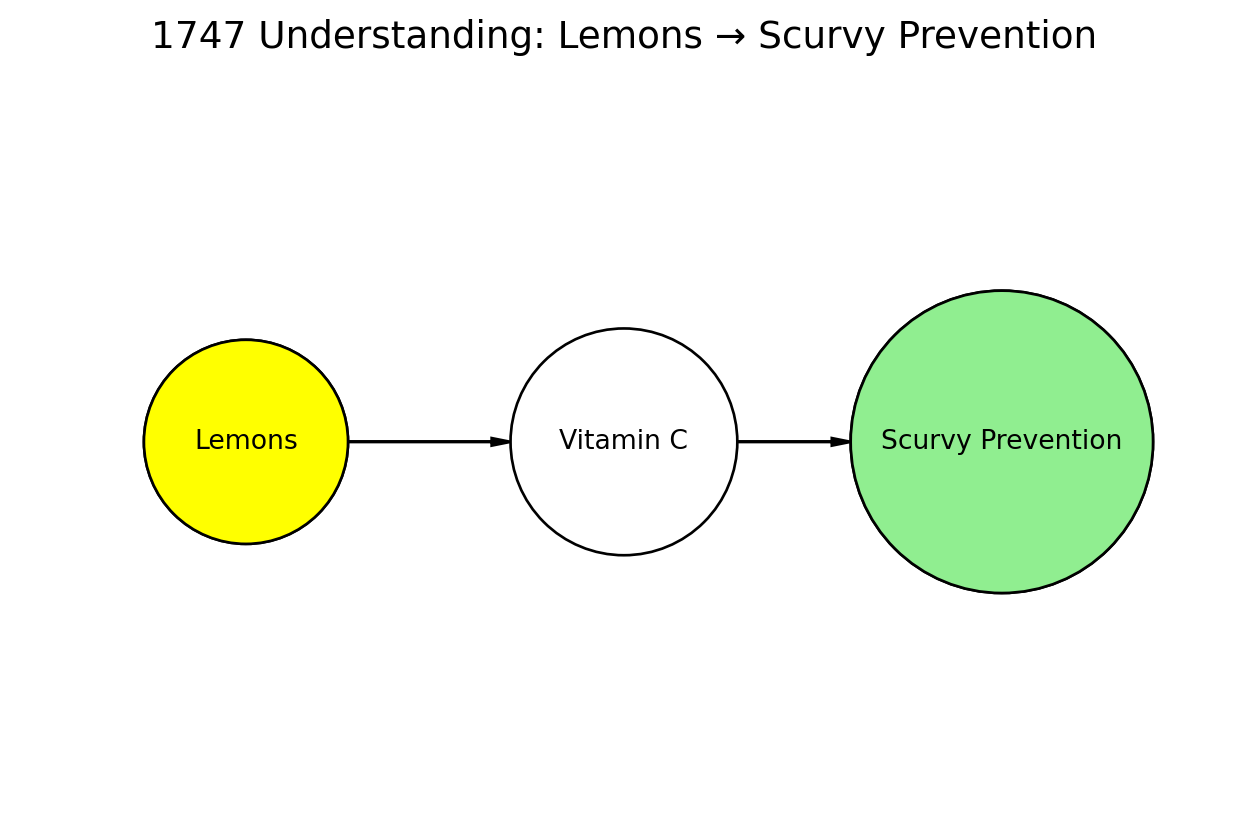
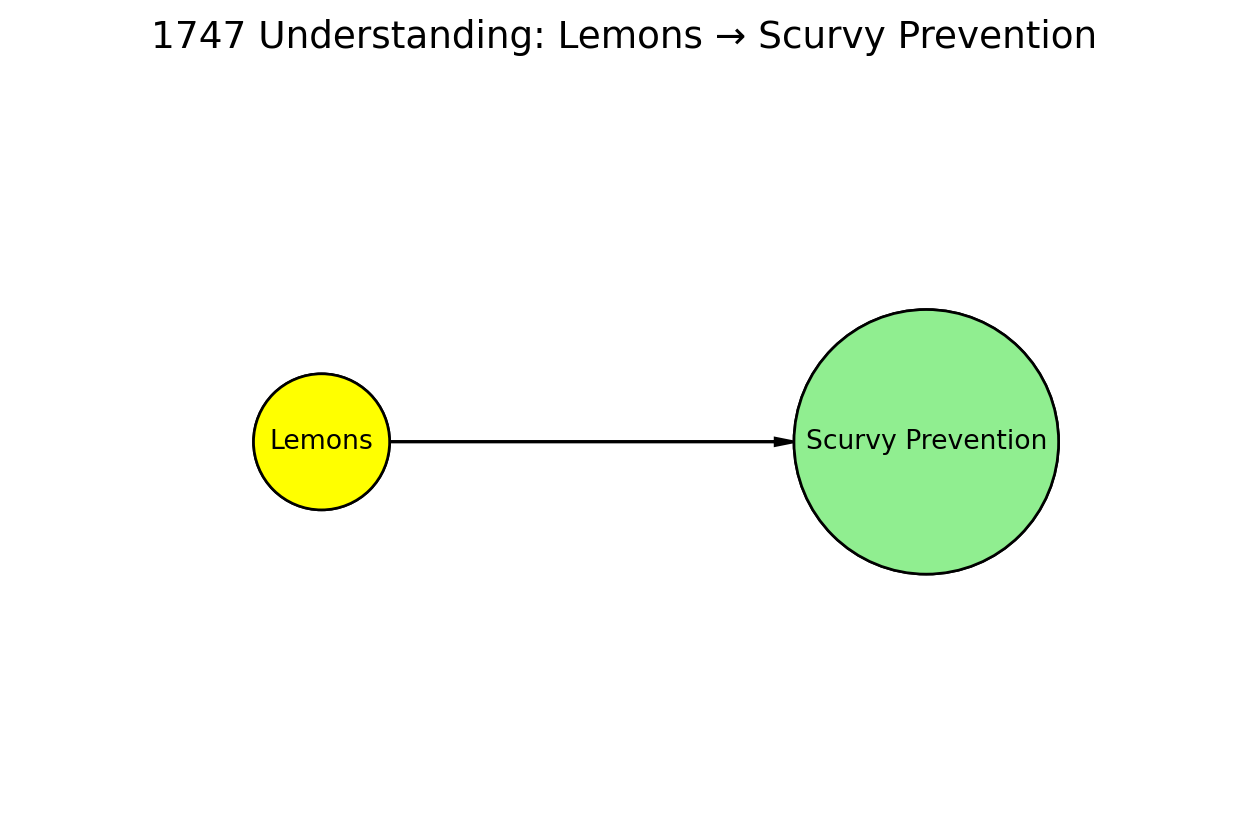
Edited final

diff --git a/index.html b/index.html
@@ -20,41 +20,6 @@ ul.task-list li input[type="checkbox"] {
   margin: 0 0.8em 0.2em -1em; /* quarto-specific, see https://github.com/quarto-dev/quarto-cli/issues/4556 */ 
   vertical-align: middle;
 }
-/* CSS for syntax highlighting */
-html { -webkit-text-size-adjust: 100%; }
-pre > code.sourceCode { white-space: pre; position: relative; }
-pre > code.sourceCode > span { display: inline-block; line-height: 1.25; }
-pre > code.sourceCode > span:empty { height: 1.2em; }
-.sourceCode { overflow: visible; }
-code.sourceCode > span { color: inherit; text-decoration: inherit; }
-div.sourceCode { margin: 1em 0; }
-pre.sourceCode { margin: 0; }
-@media screen {
-div.sourceCode { overflow: auto; }
-}
-@media print {
-pre > code.sourceCode { white-space: pre-wrap; }
-pre > code.sourceCode > span { text-indent: -5em; padding-left: 5em; }
-}
-pre.numberSource code
-  { counter-reset: source-line 0; }
-pre.numberSource code > span
-  { position: relative; left: -4em; counter-increment: source-line; }
-pre.numberSource code > span > a:first-child::before
-  { content: counter(source-line);
-    position: relative; left: -1em; text-align: right; vertical-align: baseline;
-    border: none; display: inline-block;
-    -webkit-touch-callout: none; -webkit-user-select: none;
-    -khtml-user-select: none; -moz-user-select: none;
-    -ms-user-select: none; user-select: none;
-    padding: 0 4px; width: 4em;
-  }
-pre.numberSource { margin-left: 3em;  padding-left: 4px; }
-div.sourceCode
-  {   }
-@media screen {
-pre > code.sourceCode > span > a:first-child::before { text-decoration: underline; }
-}
 </style>
 
 
@@ -131,27 +96,6 @@ pre > code.sourceCode > span > a:first-child::before { text-decoration: underlin
 <p><strong>Your Task:</strong> Recreate this DAG showing the relationship between lemons and scurvy prevention.</p>
 <p><strong>Reference Image:</strong> <img src="https://raw.githubusercontent.com/flyaflya/persuasive/642288ea5f79050c05801c3d127084ac0f361a01/images/scurvy2.png" class="img-fluid"></p>
 <div id="dag-1-1747" class="cell" data-execution_count="1">
-<div class="code-copy-outer-scaffold"><div class="sourceCode cell-code" id="cb1"><pre class="sourceCode python code-with-copy"><code class="sourceCode python"><span id="cb1-1"><a href="#cb1-1" aria-hidden="true" tabindex="-1"></a><span class="im">import</span> matplotlib.pyplot <span class="im">as</span> plt</span>
-<span id="cb1-2"><a href="#cb1-2" aria-hidden="true" tabindex="-1"></a><span class="im">import</span> daft</span>
-<span id="cb1-3"><a href="#cb1-3" aria-hidden="true" tabindex="-1"></a></span>
-<span id="cb1-4"><a href="#cb1-4" aria-hidden="true" tabindex="-1"></a></span>
-<span id="cb1-5"><a href="#cb1-5" aria-hidden="true" tabindex="-1"></a>plt.figure(figsize<span class="op">=</span>(<span class="dv">8</span>, <span class="dv">5</span>))</span>
-<span id="cb1-6"><a href="#cb1-6" aria-hidden="true" tabindex="-1"></a></span>
-<span id="cb1-7"><a href="#cb1-7" aria-hidden="true" tabindex="-1"></a>pgm <span class="op">=</span> daft.PGM([<span class="dv">8</span>, <span class="dv">5</span>], origin<span class="op">=</span>[<span class="dv">0</span>, <span class="dv">0</span>])</span>
-<span id="cb1-8"><a href="#cb1-8" aria-hidden="true" tabindex="-1"></a></span>
-<span id="cb1-9"><a href="#cb1-9" aria-hidden="true" tabindex="-1"></a>pgm.add_node(<span class="st">"lemons"</span>, <span class="st">"Lemons"</span>, <span class="fl">1.5</span>, <span class="fl">2.5</span>, observed<span class="op">=</span><span class="va">True</span>, scale<span class="op">=</span><span class="fl">2.7</span>,</span>
-<span id="cb1-10"><a href="#cb1-10" aria-hidden="true" tabindex="-1"></a>             plot_params<span class="op">=</span>{<span class="st">"fc"</span>: <span class="st">"yellow"</span>})</span>
-<span id="cb1-11"><a href="#cb1-11" aria-hidden="true" tabindex="-1"></a>pgm.add_node(<span class="st">"vitc"</span>, <span class="st">"Vitamin C"</span>, <span class="fl">4.0</span>, <span class="fl">2.5</span>, scale<span class="op">=</span><span class="dv">3</span>)</span>
-<span id="cb1-12"><a href="#cb1-12" aria-hidden="true" tabindex="-1"></a>pgm.add_node(<span class="st">"scurvy"</span>, <span class="st">"Scurvy Prevention"</span>, <span class="fl">6.5</span>, <span class="fl">2.5</span>, observed<span class="op">=</span><span class="va">True</span>, scale<span class="op">=</span><span class="dv">4</span>,</span>
-<span id="cb1-13"><a href="#cb1-13" aria-hidden="true" tabindex="-1"></a>             plot_params<span class="op">=</span>{<span class="st">"fc"</span>: <span class="st">"lightgreen"</span>})</span>
-<span id="cb1-14"><a href="#cb1-14" aria-hidden="true" tabindex="-1"></a></span>
-<span id="cb1-15"><a href="#cb1-15" aria-hidden="true" tabindex="-1"></a>pgm.add_edge(<span class="st">"lemons"</span>, <span class="st">"vitc"</span>)</span>
-<span id="cb1-16"><a href="#cb1-16" aria-hidden="true" tabindex="-1"></a>pgm.add_edge(<span class="st">"vitc"</span>, <span class="st">"scurvy"</span>)</span>
-<span id="cb1-17"><a href="#cb1-17" aria-hidden="true" tabindex="-1"></a></span>
-<span id="cb1-18"><a href="#cb1-18" aria-hidden="true" tabindex="-1"></a>pgm.render()</span>
-<span id="cb1-19"><a href="#cb1-19" aria-hidden="true" tabindex="-1"></a></span>
-<span id="cb1-20"><a href="#cb1-20" aria-hidden="true" tabindex="-1"></a>plt.title(<span class="st">"1747 Understanding: Lemons → Scurvy Prevention"</span>, fontsize<span class="op">=</span><span class="dv">14</span>)</span>
-<span id="cb1-21"><a href="#cb1-21" aria-hidden="true" tabindex="-1"></a>plt.show()</span></code></pre></div><button title="Copy to Clipboard" class="code-copy-button"><i class="bi"></i></button></div>
 <div id="dag-1-1747-1" class="cell-output cell-output-display">
 <pre><code>&lt;Figure size 768x480 with 0 Axes&gt;</code></pre>
 </div>
@@ -170,37 +114,6 @@ pre > code.sourceCode > span > a:first-child::before { text-decoration: underlin
 <p><strong>Your Task:</strong> Recreate this DAG showing the incorrect understanding of the data generating process.</p>
 <p><strong>Reference Image:</strong> <img src="https://raw.githubusercontent.com/flyaflya/persuasive/8aaffd0a3c967d0a26f506232f998130847be3e8/images/scurvy.png" class="img-fluid"></p>
 <div id="dag-2-misguided" class="cell" data-execution_count="2">
-<div class="code-copy-outer-scaffold"><div class="sourceCode cell-code" id="cb3"><pre class="sourceCode python code-with-copy"><code class="sourceCode python"><span id="cb3-1"><a href="#cb3-1" aria-hidden="true" tabindex="-1"></a><span class="im">import</span> matplotlib.pyplot <span class="im">as</span> plt</span>
-<span id="cb3-2"><a href="#cb3-2" aria-hidden="true" tabindex="-1"></a><span class="im">import</span> daft</span>
-<span id="cb3-3"><a href="#cb3-3" aria-hidden="true" tabindex="-1"></a></span>
-<span id="cb3-4"><a href="#cb3-4" aria-hidden="true" tabindex="-1"></a>plt.figure(figsize<span class="op">=</span>(<span class="dv">8</span>, <span class="dv">5</span>))</span>
-<span id="cb3-5"><a href="#cb3-5" aria-hidden="true" tabindex="-1"></a></span>
-<span id="cb3-6"><a href="#cb3-6" aria-hidden="true" tabindex="-1"></a>pgm <span class="op">=</span> daft.PGM([<span class="dv">8</span>, <span class="dv">5</span>], origin<span class="op">=</span>[<span class="dv">0</span>, <span class="dv">0</span>])</span>
-<span id="cb3-7"><a href="#cb3-7" aria-hidden="true" tabindex="-1"></a></span>
-<span id="cb3-8"><a href="#cb3-8" aria-hidden="true" tabindex="-1"></a>pgm.add_node(</span>
-<span id="cb3-9"><a href="#cb3-9" aria-hidden="true" tabindex="-1"></a>    <span class="st">"acid"</span>, <span class="st">"Acid Causess"</span>, <span class="fl">1.7</span>, <span class="fl">3.8</span>,</span>
-<span id="cb3-10"><a href="#cb3-10" aria-hidden="true" tabindex="-1"></a>    scale<span class="op">=</span><span class="fl">2.5</span>,</span>
-<span id="cb3-11"><a href="#cb3-11" aria-hidden="true" tabindex="-1"></a>    plot_params<span class="op">=</span>{<span class="st">"fc"</span>: <span class="st">"lightyellow"</span>}</span>
-<span id="cb3-12"><a href="#cb3-12" aria-hidden="true" tabindex="-1"></a>)</span>
-<span id="cb3-13"><a href="#cb3-13" aria-hidden="true" tabindex="-1"></a></span>
-<span id="cb3-14"><a href="#cb3-14" aria-hidden="true" tabindex="-1"></a>pgm.add_node(</span>
-<span id="cb3-15"><a href="#cb3-15" aria-hidden="true" tabindex="-1"></a>    <span class="st">"bacteria"</span>, <span class="st">"Bacteria in Food"</span>, <span class="fl">4.0</span>, <span class="fl">2.4</span>,</span>
-<span id="cb3-16"><a href="#cb3-16" aria-hidden="true" tabindex="-1"></a>    scale<span class="op">=</span><span class="fl">3.0</span>,</span>
-<span id="cb3-17"><a href="#cb3-17" aria-hidden="true" tabindex="-1"></a>    plot_params<span class="op">=</span>{<span class="st">"fc"</span>: <span class="st">"lightcoral"</span>}</span>
-<span id="cb3-18"><a href="#cb3-18" aria-hidden="true" tabindex="-1"></a>)</span>
-<span id="cb3-19"><a href="#cb3-19" aria-hidden="true" tabindex="-1"></a></span>
-<span id="cb3-20"><a href="#cb3-20" aria-hidden="true" tabindex="-1"></a>pgm.add_node(</span>
-<span id="cb3-21"><a href="#cb3-21" aria-hidden="true" tabindex="-1"></a>    <span class="st">"scurvy"</span>, <span class="st">"Scurvy"</span>, <span class="fl">6.3</span>, <span class="fl">1.0</span>,</span>
-<span id="cb3-22"><a href="#cb3-22" aria-hidden="true" tabindex="-1"></a>    scale<span class="op">=</span><span class="fl">3.5</span>,</span>
-<span id="cb3-23"><a href="#cb3-23" aria-hidden="true" tabindex="-1"></a>    plot_params<span class="op">=</span>{<span class="st">"fc"</span>: <span class="st">"lightgreen"</span>}</span>
-<span id="cb3-24"><a href="#cb3-24" aria-hidden="true" tabindex="-1"></a>)</span>
-<span id="cb3-25"><a href="#cb3-25" aria-hidden="true" tabindex="-1"></a>pgm.add_edge(<span class="st">"acid"</span>, <span class="st">"bacteria"</span>)</span>
-<span id="cb3-26"><a href="#cb3-26" aria-hidden="true" tabindex="-1"></a>pgm.add_edge(<span class="st">"bacteria"</span>, <span class="st">"scurvy"</span>)</span>
-<span id="cb3-27"><a href="#cb3-27" aria-hidden="true" tabindex="-1"></a></span>
-<span id="cb3-28"><a href="#cb3-28" aria-hidden="true" tabindex="-1"></a>pgm.render()</span>
-<span id="cb3-29"><a href="#cb3-29" aria-hidden="true" tabindex="-1"></a></span>
-<span id="cb3-30"><a href="#cb3-30" aria-hidden="true" tabindex="-1"></a>plt.title(<span class="st">"Misguided Understanding: Acid → Bacteria in Food → Scurvy"</span>, fontsize<span class="op">=</span><span class="dv">14</span>)</span>
-<span id="cb3-31"><a href="#cb3-31" aria-hidden="true" tabindex="-1"></a>plt.show()</span></code></pre></div><button title="Copy to Clipboard" class="code-copy-button"><i class="bi"></i></button></div>
 <div id="dag-2-misguided-1" class="cell-output cell-output-display">
 <pre><code>&lt;Figure size 768x480 with 0 Axes&gt;</code></pre>
 </div>
@@ -219,38 +132,6 @@ pre > code.sourceCode > span > a:first-child::before { text-decoration: underlin
 <p><strong>Your Task:</strong> Recreate this DAG showing the complete and correct understanding of the scurvy data generating process.</p>
 <p><strong>Reference Image:</strong> <img src="https://raw.githubusercontent.com/flyaflya/persuasive/main/images/scurvy3.png" class="img-fluid"></p>
 <div id="dag-3-1928" class="cell" data-execution_count="3">
-<div class="code-copy-outer-scaffold"><div class="sourceCode cell-code" id="cb5"><pre class="sourceCode python code-with-copy"><code class="sourceCode python"><span id="cb5-1"><a href="#cb5-1" aria-hidden="true" tabindex="-1"></a><span class="im">import</span> matplotlib.pyplot <span class="im">as</span> plt</span>
-<span id="cb5-2"><a href="#cb5-2" aria-hidden="true" tabindex="-1"></a><span class="im">import</span> daft</span>
-<span id="cb5-3"><a href="#cb5-3" aria-hidden="true" tabindex="-1"></a></span>
-<span id="cb5-4"><a href="#cb5-4" aria-hidden="true" tabindex="-1"></a>plt.figure(figsize<span class="op">=</span>(<span class="dv">8</span>, <span class="dv">5</span>))</span>
-<span id="cb5-5"><a href="#cb5-5" aria-hidden="true" tabindex="-1"></a></span>
-<span id="cb5-6"><a href="#cb5-6" aria-hidden="true" tabindex="-1"></a>pgm <span class="op">=</span> daft.PGM([<span class="dv">8</span>, <span class="dv">5</span>], origin<span class="op">=</span>[<span class="dv">0</span>, <span class="dv">0</span>])</span>
-<span id="cb5-7"><a href="#cb5-7" aria-hidden="true" tabindex="-1"></a></span>
-<span id="cb5-8"><a href="#cb5-8" aria-hidden="true" tabindex="-1"></a>pgm.add_node(</span>
-<span id="cb5-9"><a href="#cb5-9" aria-hidden="true" tabindex="-1"></a>    <span class="st">"vitc"</span>, <span class="st">"Lemon has Vitamin C"</span>, <span class="fl">1.7</span>, <span class="fl">3.8</span>,</span>
-<span id="cb5-10"><a href="#cb5-10" aria-hidden="true" tabindex="-1"></a>    scale<span class="op">=</span><span class="fl">4.0</span>,</span>
-<span id="cb5-11"><a href="#cb5-11" aria-hidden="true" tabindex="-1"></a>    plot_params<span class="op">=</span>{<span class="st">"fc"</span>: <span class="st">"lightyellow"</span>}</span>
-<span id="cb5-12"><a href="#cb5-12" aria-hidden="true" tabindex="-1"></a>)</span>
-<span id="cb5-13"><a href="#cb5-13" aria-hidden="true" tabindex="-1"></a></span>
-<span id="cb5-14"><a href="#cb5-14" aria-hidden="true" tabindex="-1"></a>pgm.add_node(</span>
-<span id="cb5-15"><a href="#cb5-15" aria-hidden="true" tabindex="-1"></a>    <span class="st">"collagen"</span>, <span class="st">"Collagen Synthesis"</span>, <span class="fl">4.2</span>, <span class="fl">2.3</span>,</span>
-<span id="cb5-16"><a href="#cb5-16" aria-hidden="true" tabindex="-1"></a>    scale<span class="op">=</span><span class="fl">4.0</span>,</span>
-<span id="cb5-17"><a href="#cb5-17" aria-hidden="true" tabindex="-1"></a>    plot_params<span class="op">=</span>{<span class="st">"fc"</span>: <span class="st">"lightblue"</span>}</span>
-<span id="cb5-18"><a href="#cb5-18" aria-hidden="true" tabindex="-1"></a>)</span>
-<span id="cb5-19"><a href="#cb5-19" aria-hidden="true" tabindex="-1"></a></span>
-<span id="cb5-20"><a href="#cb5-20" aria-hidden="true" tabindex="-1"></a>pgm.add_node(</span>
-<span id="cb5-21"><a href="#cb5-21" aria-hidden="true" tabindex="-1"></a>    <span class="st">"scurvy"</span>, <span class="st">"Prevents Scurvy"</span>, <span class="fl">6.6</span>, <span class="fl">0.9</span>,</span>
-<span id="cb5-22"><a href="#cb5-22" aria-hidden="true" tabindex="-1"></a>    scale<span class="op">=</span><span class="fl">3.5</span>,</span>
-<span id="cb5-23"><a href="#cb5-23" aria-hidden="true" tabindex="-1"></a>    plot_params<span class="op">=</span>{<span class="st">"fc"</span>: <span class="st">"lightgreen"</span>}</span>
-<span id="cb5-24"><a href="#cb5-24" aria-hidden="true" tabindex="-1"></a>)</span>
-<span id="cb5-25"><a href="#cb5-25" aria-hidden="true" tabindex="-1"></a></span>
-<span id="cb5-26"><a href="#cb5-26" aria-hidden="true" tabindex="-1"></a>pgm.add_edge(<span class="st">"vitc"</span>, <span class="st">"collagen"</span>)</span>
-<span id="cb5-27"><a href="#cb5-27" aria-hidden="true" tabindex="-1"></a>pgm.add_edge(<span class="st">"collagen"</span>, <span class="st">"scurvy"</span>)</span>
-<span id="cb5-28"><a href="#cb5-28" aria-hidden="true" tabindex="-1"></a></span>
-<span id="cb5-29"><a href="#cb5-29" aria-hidden="true" tabindex="-1"></a>pgm.render()</span>
-<span id="cb5-30"><a href="#cb5-30" aria-hidden="true" tabindex="-1"></a></span>
-<span id="cb5-31"><a href="#cb5-31" aria-hidden="true" tabindex="-1"></a>plt.title(<span class="st">"Complete Understanding: Vitamin C → Collagen Synthesis → Scurvy"</span>, fontsize<span class="op">=</span><span class="dv">14</span>)</span>
-<span id="cb5-32"><a href="#cb5-32" aria-hidden="true" tabindex="-1"></a>plt.show()</span></code></pre></div><button title="Copy to Clipboard" class="code-copy-button"><i class="bi"></i></button></div>
 <div id="dag-3-1928-1" class="cell-output cell-output-display">
 <pre><code>&lt;Figure size 768x480 with 0 Axes&gt;</code></pre>
 </div>
@@ -267,30 +148,6 @@ pre > code.sourceCode > span > a:first-child::before { text-decoration: underlin
 <h3 class="anchored" data-anchor-id="example-professional-daft-node-styling">Example: Professional DAFT Node Styling</h3>
 <p>Here’s an example (see <a href="#fig-example-node" class="quarto-xref">Figure&nbsp;1</a>) of how to create a professionally styled node in DAFT with nice captions and references to the figure:</p>
 <div id="cell-fig-example-node" class="cell" data-execution_count="4">
-<div class="code-copy-outer-scaffold"><div class="sourceCode cell-code" id="cb7"><pre class="sourceCode python code-with-copy"><code class="sourceCode python"><span id="cb7-1"><a href="#cb7-1" aria-hidden="true" tabindex="-1"></a><span class="im">import</span> daft</span>
-<span id="cb7-2"><a href="#cb7-2" aria-hidden="true" tabindex="-1"></a><span class="im">import</span> matplotlib.pyplot <span class="im">as</span> plt</span>
-<span id="cb7-3"><a href="#cb7-3" aria-hidden="true" tabindex="-1"></a></span>
-<span id="cb7-4"><a href="#cb7-4" aria-hidden="true" tabindex="-1"></a><span class="co"># Create a PGM object</span></span>
-<span id="cb7-5"><a href="#cb7-5" aria-hidden="true" tabindex="-1"></a>pgm <span class="op">=</span> daft.PGM(dpi<span class="op">=</span><span class="dv">150</span>, alternate_style<span class="op">=</span><span class="st">"outer"</span>)</span>
-<span id="cb7-6"><a href="#cb7-6" aria-hidden="true" tabindex="-1"></a></span>
-<span id="cb7-7"><a href="#cb7-7" aria-hidden="true" tabindex="-1"></a><span class="co"># Example of a professionally styled node</span></span>
-<span id="cb7-8"><a href="#cb7-8" aria-hidden="true" tabindex="-1"></a>pgm.add_node(<span class="st">"vitamin_c"</span>, <span class="st">"Vitamin C</span><span class="ch">\n</span><span class="st">Intake"</span> <span class="op">+</span> <span class="vs">r" </span><span class="dv">$</span><span class="kw">(</span><span class="vs">X</span><span class="kw">)</span><span class="dv">$</span><span class="vs">"</span>, <span class="dv">1</span>, <span class="dv">1</span>, aspect <span class="op">=</span> <span class="dv">3</span>, scale <span class="op">=</span> <span class="fl">1.1</span>,</span>
-<span id="cb7-9"><a href="#cb7-9" aria-hidden="true" tabindex="-1"></a>             plot_params<span class="op">=</span>{</span>
-<span id="cb7-10"><a href="#cb7-10" aria-hidden="true" tabindex="-1"></a>                 <span class="st">'facecolor'</span>: <span class="st">'lightgreen'</span>, </span>
-<span id="cb7-11"><a href="#cb7-11" aria-hidden="true" tabindex="-1"></a>                 <span class="st">'edgecolor'</span>: <span class="st">'darkgreen'</span>, </span>
-<span id="cb7-12"><a href="#cb7-12" aria-hidden="true" tabindex="-1"></a>                 <span class="st">'linewidth'</span>: <span class="dv">2</span>,</span>
-<span id="cb7-13"><a href="#cb7-13" aria-hidden="true" tabindex="-1"></a>                 <span class="st">'alpha'</span>: <span class="fl">0.8</span>,</span>
-<span id="cb7-14"><a href="#cb7-14" aria-hidden="true" tabindex="-1"></a>             })</span>
-<span id="cb7-15"><a href="#cb7-15" aria-hidden="true" tabindex="-1"></a>pgm.add_node(<span class="st">"health"</span>, <span class="st">"Healthiness</span><span class="ch">\n</span><span class="st">"</span><span class="op">+</span><span class="vs">r" </span><span class="dv">$</span><span class="kw">(</span><span class="vs">Y</span><span class="kw">)</span><span class="dv">$</span><span class="vs">"</span>, <span class="fl">3.25</span>, <span class="dv">1</span>, aspect <span class="op">=</span> <span class="dv">3</span>, scale <span class="op">=</span> <span class="fl">1.1</span>,</span>
-<span id="cb7-16"><a href="#cb7-16" aria-hidden="true" tabindex="-1"></a>             plot_params<span class="op">=</span>{</span>
-<span id="cb7-17"><a href="#cb7-17" aria-hidden="true" tabindex="-1"></a>                 <span class="st">'facecolor'</span>: <span class="st">'thistle'</span>, </span>
-<span id="cb7-18"><a href="#cb7-18" aria-hidden="true" tabindex="-1"></a>                 <span class="st">'edgecolor'</span>: <span class="st">'purple'</span>, </span>
-<span id="cb7-19"><a href="#cb7-19" aria-hidden="true" tabindex="-1"></a>                 <span class="st">'linewidth'</span>: <span class="dv">2</span>,</span>
-<span id="cb7-20"><a href="#cb7-20" aria-hidden="true" tabindex="-1"></a>                 <span class="st">'alpha'</span>: <span class="fl">0.8</span>,</span>
-<span id="cb7-21"><a href="#cb7-21" aria-hidden="true" tabindex="-1"></a>             })</span>
-<span id="cb7-22"><a href="#cb7-22" aria-hidden="true" tabindex="-1"></a>pgm.add_edge(<span class="st">"vitamin_c"</span>, <span class="st">"health"</span>)</span>
-<span id="cb7-23"><a href="#cb7-23" aria-hidden="true" tabindex="-1"></a></span>
-<span id="cb7-24"><a href="#cb7-24" aria-hidden="true" tabindex="-1"></a>pgm.render()</span></code></pre></div><button title="Copy to Clipboard" class="code-copy-button"><i class="bi"></i></button></div>
 <div class="cell-output cell-output-display">
 <div id="fig-example-node" class="quarto-float quarto-figure quarto-figure-center anchored">
 <figure class="quarto-float quarto-float-fig figure">
